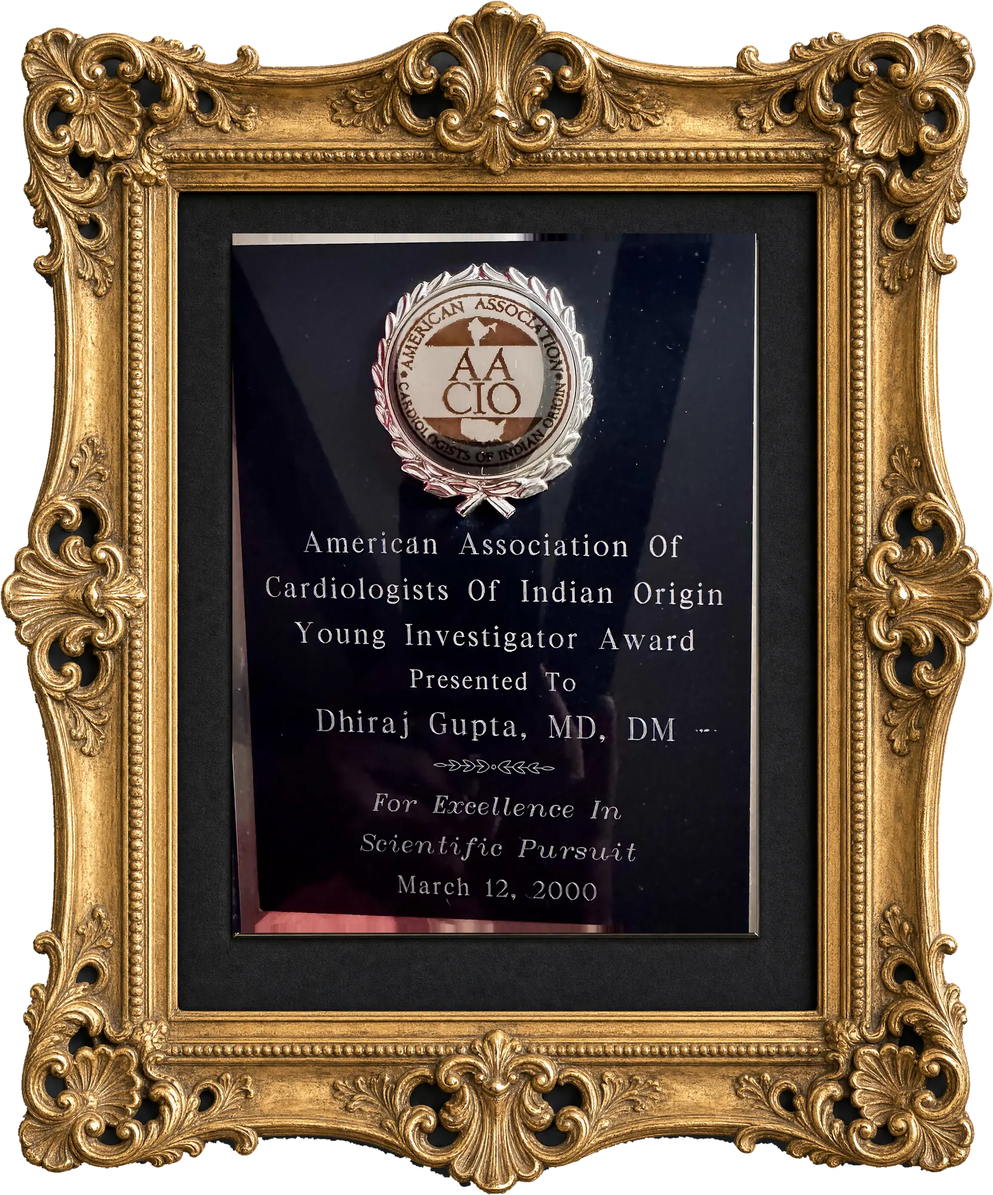
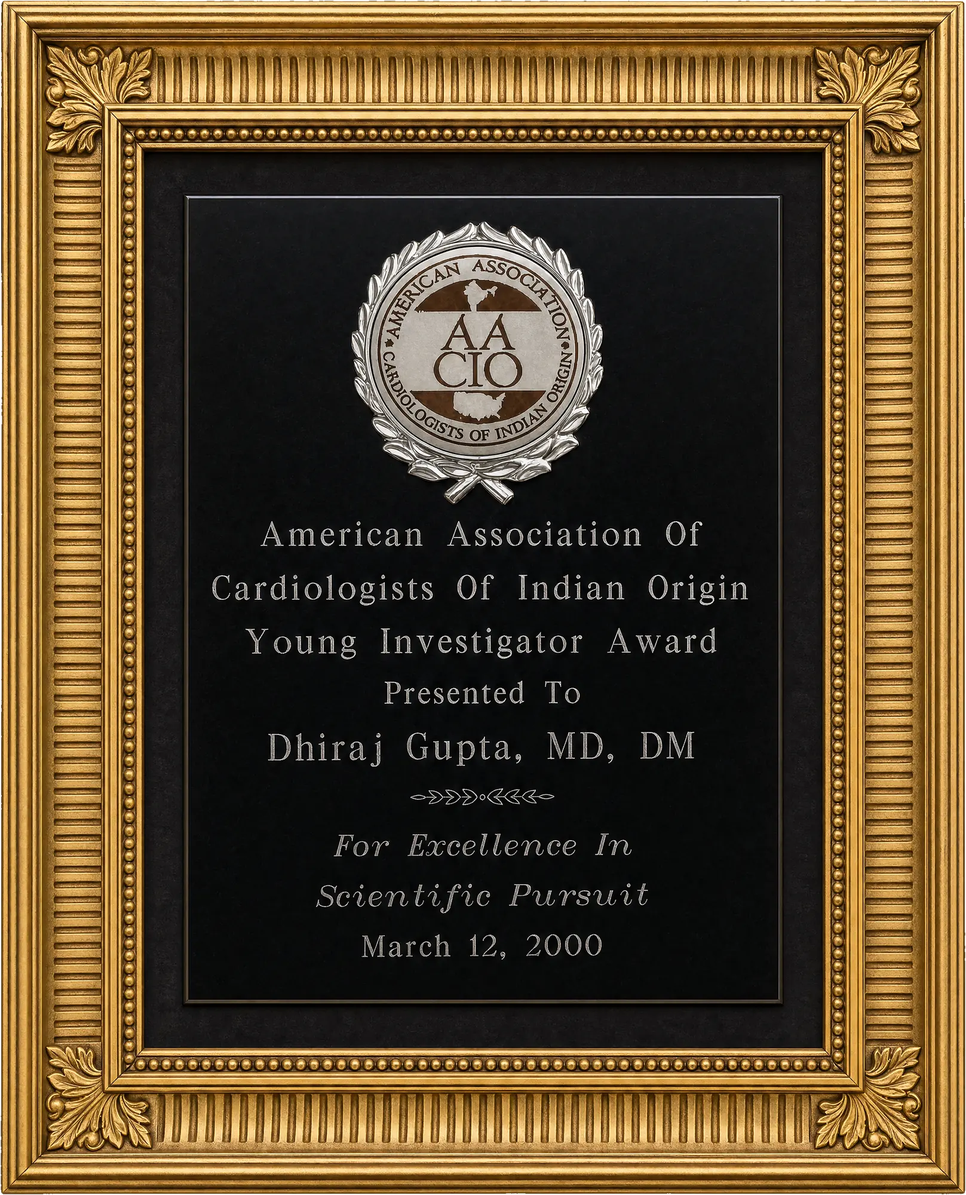
Reframe the Young Investigator plaque and hang the NHS Silver letter
The Young Investigator master was warped with corners that sat slightly
outside the plaque's engraved face, so marble bled in at three edges and
the earlier crop left a grey strip on the left and a pink reflection band
along the bottom. Re-derive the corners from the cream stone bevel so the
master is edge to edge plaque face, then send it through GPT Image 2 to
re-present it square-on and evenly lit as well as to frame it.

This is the one item on the wall whose document face is generated rather
than photographed. The source is a phone photo taken well off-axis with
hard shadow bands and the photographer's silhouette mirrored in the
polished stone, and no deterministic step removes a reflection, so
reinstating the master would put the glare straight back. Every line, the
flourish and the AACIO crest were checked character by character against
the master and match, ring text included. Logged as a named exception in
the house rules.

The Silver award letter went through the pipeline the normal way: a
generated gilt frame with a wide conservation mount, then reinstate.py
putting the real letter back into the opening, so the royal coat of arms
and the ACCEA logo are the authentic document. Move the entry out of
pendingCertifications into the recognition room in year order. The source
is a 630x683 crop, so the letter upscales about 1.9x and the page ends
before the signature block; both are recorded against the config.

diff --git a/data/certifications.ts b/data/certifications.ts
@@ -205,7 +205,7 @@ export const certifications: Certification[] = [
     kind: 'scan',
     image: {
       src: '/images/certificates/acc-young-investigator-2000.webp',
-      width: 1663,
+      width: 1617,
       height: 2000,
       alt: 'Engraved black plaque awarded to Dhiraj Gupta by the American Association of Cardiologists of Indian Origin, Young Investigator Award for Excellence in Scientific Pursuit, 12 March 2000.',
     },
@@ -235,6 +235,27 @@ export const certifications: Certification[] = [
       'In the same year, the Primary Care Atrial Fibrillation pathway Professor Gupta helped develop won Anticoagulation Innovation of the Year from the British Medical Association, and he was invited to speak at the All-Party Parliamentary Group on Atrial Fibrillation in Westminster.',
     ],
     meta: 'National practice award, 2014',
+  },
+  {
+    id: 'nhs-silver-2022',
+    postnominal: 'NHS Silver',
+    title: 'National Clinical Excellence Award, Silver',
+    awardingBody: 'National Health Service',
+    location: 'United Kingdom',
+    year: '2022',
+    category: 'recognition',
+    kind: 'scan',
+    image: {
+      src: '/images/certificates/nhs-silver-2022.webp',
+      width: 1674,
+      height: 2000,
+      alt: 'Letter from the Advisory Committee on Clinical Excellence Awards and the Department of Health and Social Care to Dr Dhiraj Gupta at Liverpool Heart and Chest Hospital, dated 10 January 2022, confirming a Silver award under the Clinical Excellence Awards 2021.',
+    },
+    story: [
+      'Just five years after the Bronze Award, Professor Gupta was awarded the highly coveted NHS National Silver Clinical Excellence Award.',
+      'Only a small fraction of NHS consultants, fewer than one percent, are recognised at this level. The Silver award reflects sustained national contribution to clinical practice, research and teaching.',
+    ],
+    meta: 'National Silver Award, 2022',
   },
   {
     id: 'pgimer-appreciation-2025',
@@ -283,10 +304,11 @@ export const certifications: Certification[] = [
 /**
  * Held back from the wall for now.
  *
- * The NHS Bronze and Silver Clinical Excellence Awards and the Liverpool
- * professorship are conferred by letter rather than by certificate, and we do
- * not yet have those letters to scan. Rather than hang three typeset plates
- * with no document behind them, they sit here until the letters are in hand.
+ * The NHS Bronze Clinical Excellence Award and the Liverpool professorship are
+ * conferred by letter rather than by certificate, and we do not yet have those
+ * letters to scan. Rather than hang two typeset plates with no document behind
+ * them, they sit here until the letters are in hand. The Silver award letter
+ * arrived and now hangs on the wall above.
  *
  * To reinstate one: move the entry back into `certifications` above, in year
  * order within the recognition section. If a letter has been scanned by then,
@@ -324,20 +346,5 @@ export const pendingCertifications: Certification[] = [
       'Professor Gupta has authored more than 350 peer-reviewed publications, cited over 13,000 times, and has secured around five million pounds in competitive research grants from the NIHR, British Heart Foundation and industry.',
     ],
     meta: '350+ publications, 13,000+ citations',
-  },
-  {
-    id: 'nhs-silver-2022',
-    postnominal: 'NHS Silver',
-    title: 'National Clinical Excellence Award, Silver',
-    awardingBody: 'National Health Service',
-    location: 'United Kingdom',
-    year: '2022',
-    category: 'recognition',
-    kind: 'plate',
-    story: [
-      'Just five years after the Bronze Award, Professor Gupta was awarded the highly coveted NHS National Silver Clinical Excellence Award.',
-      'Only a small fraction of NHS consultants, fewer than one percent, are recognised at this level. The Silver award reflects sustained national contribution to clinical practice, research and teaching.',
-    ],
-    meta: 'National Silver Award, 2022',
   },
 ];

diff --git a/docs/adding-certificates.md b/docs/adding-certificates.md
@@ -182,17 +182,17 @@ shipping a broken image.
 
 ## Items held back until the letters arrive
 
-Three credentials are written up but not on the wall. They sit in
+Two credentials are written up but not on the wall. They sit in
 `pendingCertifications` at the bottom of `data/certifications.ts`, which nothing
 imports, so they render nowhere:
 
 - NHS National Clinical Excellence Award, Bronze (2017)
 - Honorary Professor of Cardiology, University of Liverpool (2019)
-- NHS National Clinical Excellence Award, Silver (2022)
 
-All three are conferred by letter rather than by certificate, and we do not have
+Both are conferred by letter rather than by certificate, and we do not have
 those letters to scan yet. Rather than hang typeset plates with no document
-behind them, they wait.
+behind them, they wait. The Silver award (2022) was in this list until its
+ACCEA letter turned up; it is now a framed scan on the wall.
 
 To put one back, move the entry from `pendingCertifications` into
 `certifications`, in year order within the recognition section. If the letter
@@ -206,13 +206,14 @@ the catalogue and the structured data all flow from the array.
   colons or parentheses.
 - Keep the wall to authentic documents. Do not generate replica certificates or
   institution crests; a typeset `plate` is the honest stand-in until a real scan
-  exists.
+  exists. `acc-young-investigator-2000` is the single logged exception, for the
+  reasons recorded against it below.
 
-## Restore configs used for the current six scans
+## Restore configs used for the current scans
 
 These produce the restored, un-framed PNG masters from the originals in
-`Certificates/` (step 2). Each master then goes through the framing and
-transparency steps (3) to become the `.webp` on the wall. Run each as
+`Certificates/` or `Website Photos/` (step 2). Each master then goes through the
+framing and transparency steps (3) to become the `.webp` on the wall. Run each as
 `python3 scripts/certificates/restore.py "<source>" "<slug>-master.png" '<config>'`.
 
 - `md-pgimer-1997` from `MD Medicine degree certificate PGIMER 1997.jpg`:
@@ -228,7 +229,7 @@ transparency steps (3) to become the `.webp` on the wall. Run each as
 - `fesc-2018` from `FESC degree certificate 2018.jpg`:
   `{"corners":[[605,640],[4465,610],[4450,3298],[605,3300]],"out_w":3840,"out_h":2660,"paper_pct":85,"levels_pct":[0.5,99.7],"denoise_amt":0.3,"sharpen_amt":90}`
 
-The four added later also needed the reinstate step (3), with the mount
+The ones added later also needed the reinstate step (3), with the mount
 opening measured on the generated frame:
 
 - `arrhythmia-alliance-2014` from the award PDF. Render the page first
@@ -236,12 +237,26 @@ opening measured on the generated frame:
   since a born-digital PDF needs no correction:
   `{"wb":false,"levels":false,"denoise":false,"sharpen":false}`.
   Reinstate `{"rect":[683,476,2635,1942]}`.
-- `acc-young-investigator-2000` from `ACC Young Investigators Award 2000.jpg`.
-  A glossy black plaque, so white balance and levels must be off or the stone
-  blows out:
-  `{"corners":[[275,360],[2858,312],[2846,3698],[243,3766]],"out_w":2590,"out_h":3390,"wb":false,"levels":false,"denoise_amt":0.25,"sharpen_amt":70}`,
-  then a second pass `{"crop":[0.014,0.026,0.022,0.012]}` to clear the marble.
-  Reinstate `{"rect":[627,793,1844,2417]}`.
+- `acc-young-investigator-2000` from `Website Photos/ACC Young Investigators
+  Award 2000.jpg`. A glossy black plaque, so white balance and levels must be
+  off or the stone blows out. The corners are the dark engraved face, read just
+  inside the cream stone bevel, so the warp lands on the face and no marble
+  bleeds in at the edges:
+  `{"corners":[[301,474],[2791,392],[2750,3698],[428,3648]],"out_w":2440,"out_h":3253,"wb":false,"levels":false,"denoise_amt":0.25,"sharpen_amt":70}`.
+  No second crop pass and no reinstate: see the note below.
+
+  **This is the one item on the wall whose document face is generated rather
+  than photographed.** The source is a phone photo taken well off-axis, with
+  hard diagonal shadow bands, specular streaks and the photographer's
+  silhouette mirrored in the polished stone, and no deterministic step can
+  remove a reflection. So GPT Image 2 was asked to re-present the plaque
+  square-on and evenly lit as well as to frame it, and the result was kept
+  as-is instead of reinstating the master over it, because reinstating would
+  put the glare straight back. Every line of the engraving, the flourish and
+  the AACIO crest were checked character by character against the master and
+  match, ring text included, which is not the usual outcome (see step 3) and is
+  why this exception was allowed to stand. If the plaque is ever rephotographed
+  square-on under diffuse light, redo it the normal way with a reinstate step.
 - `pgimer-appreciation-2025` from `Certificate of Appreciation PGI Chandigarh 2025.jpg`:
   `{"rotate":-0.6,"crop":[0.030,0.035,0.036,0.064],"paper_pct":86,"levels_pct":[0.5,99.5],"denoise_amt":0.3,"sharpen_amt":95}`.
   Reinstate `{"rect":[632,491,2695,1918]}`.
@@ -258,6 +273,16 @@ opening measured on the generated frame:
   "llor" of "Vice-Chancellor", and the date line below "05th, February, 2026"
   is cut off. Both go away if the physical certificate is ever rephotographed;
   nothing but the master and these two configs would need to change.
+- `nhs-silver-2022` from `Website Photos/NHS Silver ACCEA award letter
+  2022.jpeg`. A born-digital letter, so every correction is off:
+  `{"wb":false,"levels":false,"denoise":false,"sharpen":false}`.
+  Reinstate `{"rect":[626,409,2248,2471]}` in the default `pad` mode, which only
+  extends the letter's own white margin to meet a slightly taller opening.
+  The source is a 630x683 crop of the first page, so the letter is upscaled
+  about 1.9x into the frame and reads a little soft next to the other scans, and
+  the page ends after "this very significant achievement" with the signature
+  block below the crop. Both go away if the full page is ever scanned: only the
+  master and the reinstate rect would need to change.
 - `aig-appreciation-2025` from `Plaque of Appreciation Hyderabad 2025.jpg`:
   `{"corners":[[845,1015],[3472,977],[3486,4736],[852,4770]],"out_w":2630,"out_h":3760,"paper_pct":84,"levels_pct":[0.5,99.6],"denoise_amt":0.3,"sharpen_amt":90}`,
   then `{"crop":[0.006,0.004,0.032,0.040]}` to clear the physical frame lip.
